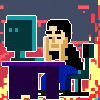
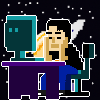
Hair update

diff --git a/main.py b/main.py
@@ -25,11 +25,15 @@ eyebrow_files = {
 }
 
 
-hair=['hair1']
-hair_weight=[100]
+hair=['hair1','hair2','hair3','hair4','hair5']
+hair_weight=[20,20,20,20,20]
 
 hair_files = {
-    "hair1": "hair1"
+    "hair1": "hair1",
+    "hair2" : "hair2",
+    "hair3" : "hair3",
+    "hair4" : "hair4",
+    "hair5" : "hair5"
 
 }
 
@@ -98,7 +102,7 @@ bg_files = {
 
 
 
-TOTAL_IMAGES = 30
+TOTAL_IMAGES = 100
 
 all_images=[]
 
